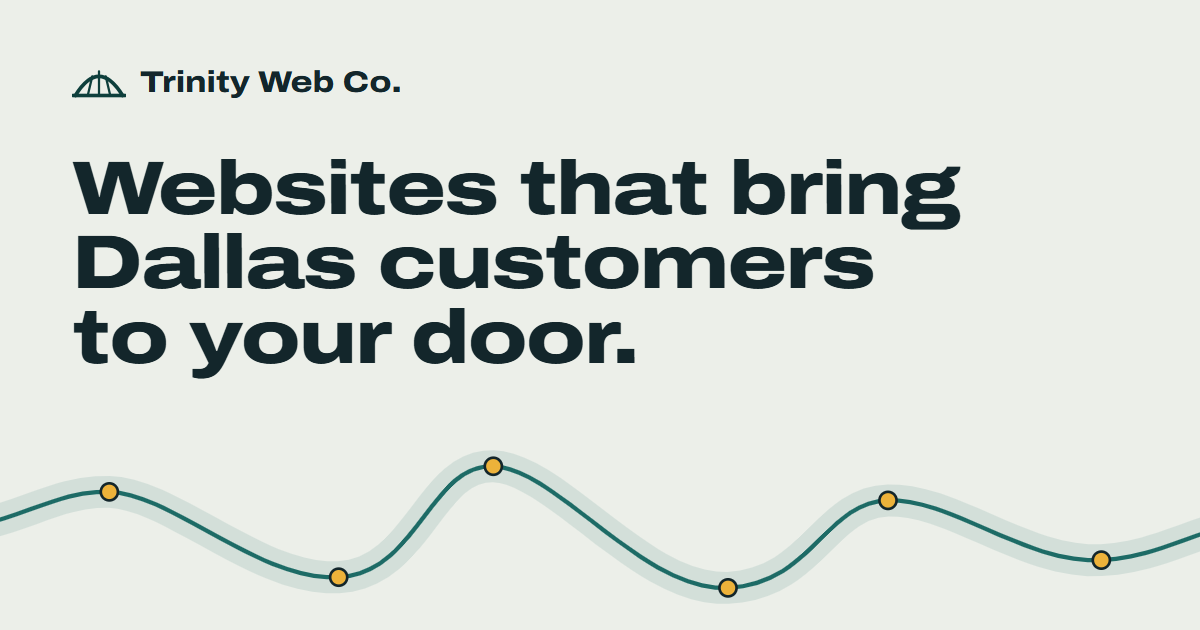
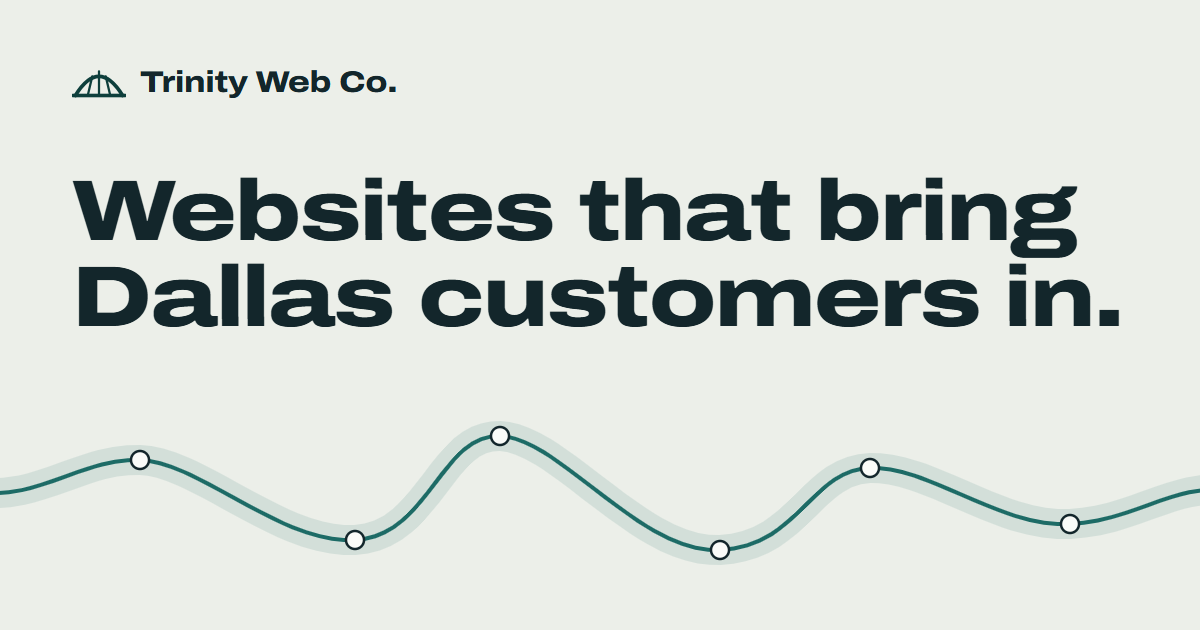
Rebuild the hero around the river with the new headline
"Websites that bring Dallas customers in." fits on two lines on a
computer and three on a phone, with a shorter intro. From 1200 px the
river runs large up the right half beside the copy and leaves through
the screen edge; narrower screens keep the strip. The share image is
redrawn with the new headline and white river dots.

Changed region(s): [[0.0617, 0.2413, 0.9558, 0.6032], [0.0, 0.6635, 1.0, 0.9651], [0.1233, 0.0905, 0.3392, 0.1508]]

diff --git a/site/src/content/site.ts b/site/src/content/site.ts
@@ -19,8 +19,8 @@ export const site: SiteConfig = {
   hours: [],
 
   hero: {
-    headline: 'Websites that bring Dallas customers to your door.',
-    lede: 'Trinity Web Co. does web design for Dallas businesses: fast, good-looking websites for local contractors, cleaning crews, salons, barbers and studios. Your site gets set up for Google from day one, and I look after it every month so you don’t have to.',
+    headline: 'Websites that bring Dallas customers in.',
+    lede: 'Web design for Dallas contractors, cleaning crews, salons, barbers and studios. Fast sites, set up for Google from day one and looked after every month.',
     primaryCta: { label: 'Book a free 20-minute call', href: '#contact' },
     secondaryCta: { label: 'See pricing', href: '#pricing' },
   },
@@ -103,7 +103,7 @@ export const site: SiteConfig = {
     title: 'Trinity Web Co. | Websites for Dallas small businesses',
     description: 'Fast, mobile-friendly websites for Dallas contractors, cleaning crews, salons and barbers. Fixed prices from $1500, set up for Google from day one.',
     ogImage: '/og-image.png',
-    ogImageAlt: 'Trinity Web Co.: “Websites that bring Dallas customers to your door,” above a line drawing of the Trinity River',
+    ogImageAlt: 'Trinity Web Co.: “Websites that bring Dallas customers in,” above a line drawing of the Trinity River',
   },
 
   features: { blog: false, booking: false, map: false, gallery: false, quoteForm: false },

diff --git a/CHECKLIST.md b/CHECKLIST.md
@@ -2,7 +2,7 @@
 
 Summarized at the start of every Claude Code session in this repo by the SessionStart hook (`.claude/hooks/checklist.js`): the top 3 open items, then each group's done/total. Tick items in place inside their group (`- [x]`) with the date or commit when done, so the counts move; DONE holds older history. Add new to-dos to the right group under TO DO. Longer context is in `HANDOFF.md`.
 
-Last updated: 2026-10-21
+Last updated: 2026-10-22
 
 ## DONE
 
@@ -37,7 +37,7 @@ In launch order. Items in the same group can run in parallel.
 - [ ] Search "Trinity Web Co." on SOSDirect and the USPTO trademark search, since the LLC will use the name
 - [x] Update the domain across this repo: `site/` (url, email), docs, the client admin template and the root `CLAUDE.md` open item. The site template and both demos never named the domain, so they need no change or sync (2026-10-21, on branch `domain-trinitywebdallas` for Hector's OK)
 - [ ] Once the domain is live: put the "Built by" / "Website by" credit link back on it in the template (then sync), both demos and `site/` (removed 2026-10-12, 00b8ca1)
-- [ ] Redraw og-image (white dots + final name): `site/public/og-image.png`, 1200×630, still has the old gold river dots and "Trinity Web Co." (left as is on 2026-10-19)
+- [x] Redraw og-image (white dots + final name): `site/public/og-image.png`, 1200×630, still has the old gold river dots and "Trinity Web Co." (left as is on 2026-10-19) (2026-10-22: redrawn with white dots and the new headline "Websites that bring Dallas customers in.", on branch `hero-river` for Hector's OK)
 - [ ] Move the Vercel account from Hobby to Pro before launch (production demos are commercial use, which Hobby doesn't allow). Not needed while everything is preview-only (2026-10-12: Hector is holding Pro and production deploys until the name and domain are decided)
 - [ ] Deploy both demos to production (`npx vercel deploy --prod` in each demo repo), run PageSpeed Insights (mobile) on each production URL. Needs Pro first; on hold with the name and domain (2026-10-13)
 
